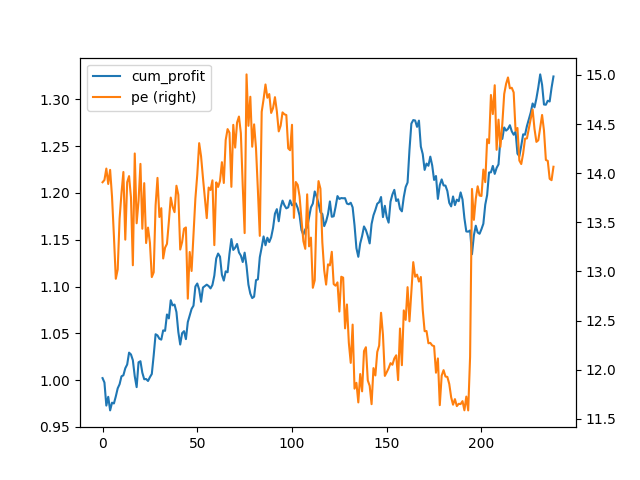
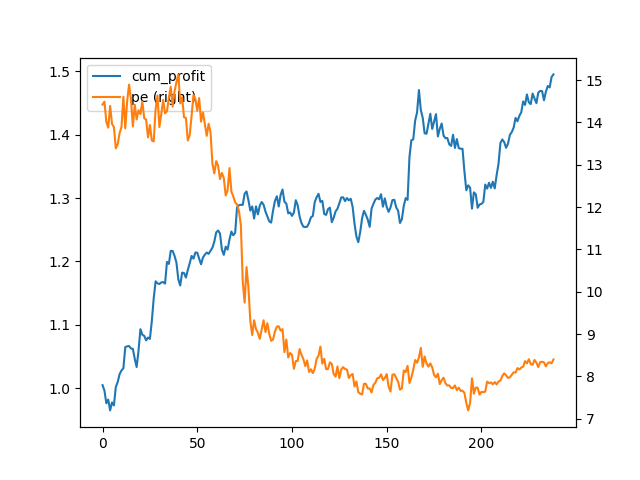
v1

diff --git a/Strategy.py b/Strategy.py
@@ -58,14 +58,34 @@ class BaseStrategy:
         self.filtered_stock_list:list[str]=None
         self.action_logger=ActionLogger()
 
+        self.lookback=5
         self.roe_threshold=15.0
         self.profit_gr_threshold=0
         self.recent_profit_gr_threshold=5
         self.profit_gr_avg_threshold=10
         self.select_num=30
-
+        self.tolerate=2#允许一年财报异常
         return
     
+    def __check_finance(self,finance_data,date,recover_threshhold):
+        #年报时间异常，可能是新股
+        if finance_data.notice_date>=date:
+            return False,1e9
+        
+        if recover_threshhold>0:
+            if finance_data.non_gaap_net_profit_yoy_gr<recover_threshhold:
+                return False,recover_threshhold-finance_data.non_gaap_net_profit_yoy_gr
+        else:
+            #扣非盈利大额衰减
+            if not finance_data.non_gaap_net_profit_yoy_gr>=self.profit_gr_threshold:
+                return False,finance_data.non_gaap_net_profit_yoy_gr
+            
+        #财报正常增粘，但roe过低
+        if not finance_data.roe_non_gaap_wtd>=self.roe_threshold:
+            return False,1e9
+        
+        return True,0
+
     def pre_filter(self,year):
         self.filtered_stock_list=[]
 
@@ -73,34 +93,22 @@ class BaseStrategy:
         stock_list:list[str]=[]
         for stock_code in all_stocks:
             finance_datas=self.finance_data[self.finance_data['stock_code']==stock_code]
-            #近两年财报
-            bad_finance=False
-            profit_gr_last_2_year=0
-            recent_annual_financial_report=None
-            for finance_year in range(year-3,year-1):
+            #回测X年，X-1年财报可能未出[X-1-Lookback,X-1)，X-1财报已出[X-Lookback,X)
+            #PreFilter交集[X-Lookback,X-1)
+            NegativeCount=0
+            recover_threshhold=0
+            for finance_year in range(year-self.lookback,year-1):
                 finance_data=finance_datas[finance_datas['report_date']==str(finance_year)+'-12-31']
                 if finance_data.empty:
-                    bad_finance=True
+                    NegativeCount=self.tolerate+1
                     break
-                finance_data=finance_data.iloc[0]
-                #年报时间异常：
-                if finance_data.notice_date>=(str(year)+'-01-01'):
-                    break
-                #roe过低
-                if finance_data.roe_non_gaap_wtd<self.roe_threshold:
-                    bad_finance=True
-                    break
-                #扣非盈利大额衰减
-                if finance_data.non_gaap_net_profit_yoy_gr<self.profit_gr_threshold:
-                    bad_finance=True
-                    break
-                profit_gr_last_2_year+=finance_data.non_gaap_net_profit_yoy_gr
-            # 增长乏力
-            if profit_gr_last_2_year<self.profit_gr_avg_threshold*2:
-                bad_finance=True
-            if bad_finance:
-                continue
-            else:
+
+                #check report
+                is_positive_report,recover_threshhold=self.__check_finance(finance_data.iloc[0],str(year)+'-01-01',recover_threshhold)
+                if is_positive_report==False:
+                    NegativeCount+=1
+                
+            if NegativeCount<=self.tolerate:
                 stock_list.append(stock_code)
 
         return stock_list
@@ -126,40 +134,42 @@ class BaseStrategy:
             stock_market=market_data[market_data['stock_code']==stock_code]
             if stock_finance.empty or stock_market.empty:
                 continue
-                
-
-            #过去两年财报
-            bad_finance=False  
-            profit_gr_sum=0
-            year_finance_reports=stock_finance[stock_finance['report_type']=='年报']
-            if len(year_finance_reports)<2:
+            
+            annual_finance_reports=stock_finance[stock_finance['report_type']=='年报']
+            if len(annual_finance_reports)<self.lookback:
                 continue
-            year_finance_reports=year_finance_reports.head(2)
-            for finance in year_finance_reports.itertuples():
-                if not finance.non_gaap_net_profit_yoy_gr>=self.profit_gr_threshold:
-                    bad_finance=True
-                    break
+            annual_finance_reports=annual_finance_reports.head(self.lookback)
+            recent_report=stock_finance.iloc[0]
+
+            #历史年报
+            NegativeCount=0
+            profit_gr_sum=0
+            recover_threshhold=0
+            for finance in annual_finance_reports.itertuples():
+                is_positive_report,recover_threshhold=self.__check_finance(finance,date,recover_threshhold)
+                if is_positive_report==False:
+                    NegativeCount+=1
                 profit_gr_sum+=finance.non_gaap_net_profit_yoy_gr
-            if not profit_gr_sum>=self.profit_gr_avg_threshold*2:
-                bad_finance=True
+            if not profit_gr_sum>=self.profit_gr_avg_threshold*self.lookback:
+                continue
+            if NegativeCount>self.tolerate:
+                continue
+
             #最近财报
-            finance=stock_finance.iloc[0]
-            if not finance.non_gaap_net_profit_yoy_gr>=self.profit_gr_avg_threshold:
-                bad_finance=True
-            if bad_finance:
+            if not recent_report.non_gaap_net_profit_yoy_gr>=self.profit_gr_avg_threshold:
                 continue
             
             #pe
             stock_market=stock_market.iloc[0]
-            if finance.report_type=='一季报':
-                non_gaap_eps=float(finance.non_gaap_eps*4)
-            elif finance.report_type=='中报':
-                non_gaap_eps=float(finance.non_gaap_eps*2)
-            elif finance.report_type=='三季报':
-                non_gaap_eps=float(finance.non_gaap_eps/3*4)
+            if recent_report.report_type=='一季报':
+                non_gaap_eps=float(recent_report.non_gaap_eps*4)
+            elif recent_report.report_type=='中报':
+                non_gaap_eps=float(recent_report.non_gaap_eps*2)
+            elif recent_report.report_type=='三季报':
+                non_gaap_eps=float(recent_report.non_gaap_eps/3*4)
             else:
-                non_gaap_eps=finance.non_gaap_eps
-            if not finance.non_gaap_eps>0:
+                non_gaap_eps=recent_report.non_gaap_eps
+            if not recent_report.non_gaap_eps>0:
                 continue
             pe=stock_market.stock_price/non_gaap_eps
             dataframe_list.append([stock_code,pe,stock_market.close])

diff --git a/run.py b/run.py
@@ -29,7 +29,7 @@ def gen_date_range(year:int):
 if __name__=='__main__':
     
     profit_dataframe_list=[]
-    start_year=2020
+    start_year=2022
     end_year=2024
 
     # WarmUp: request data and save to csv
